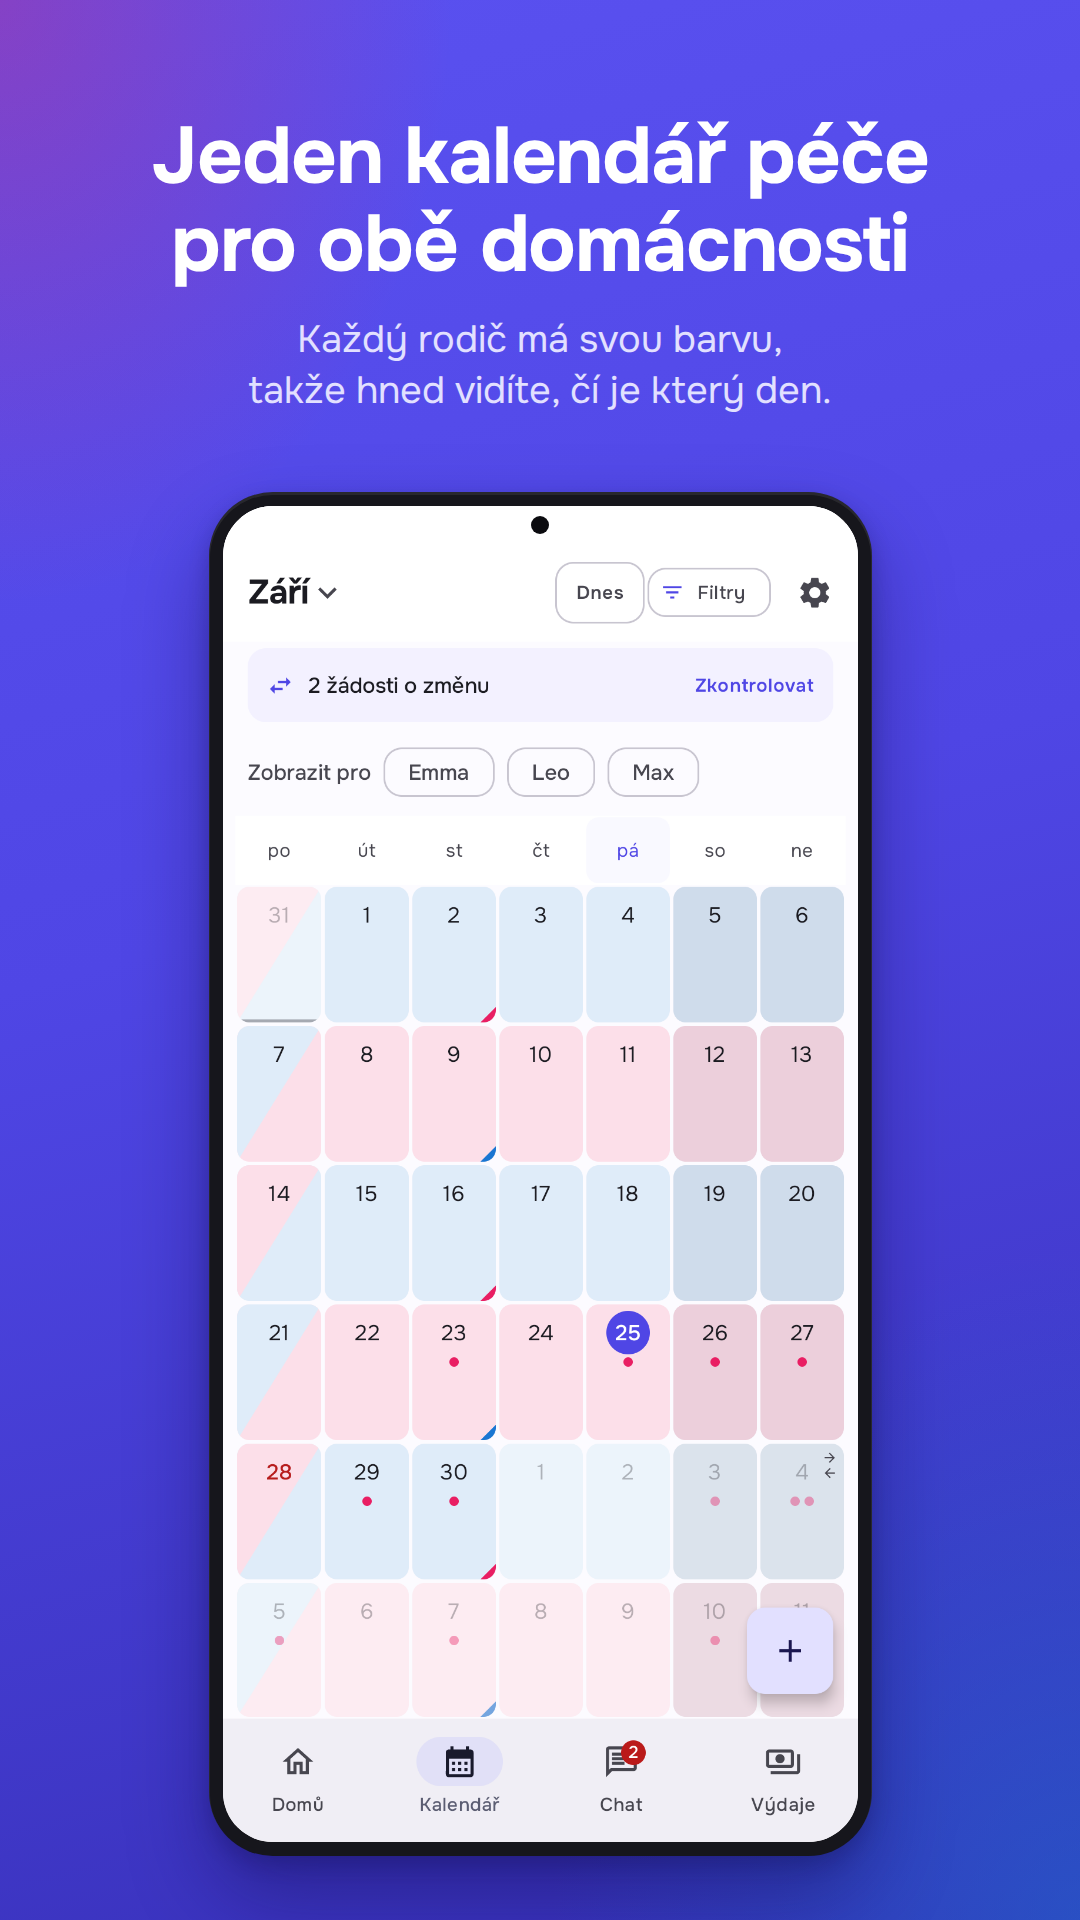
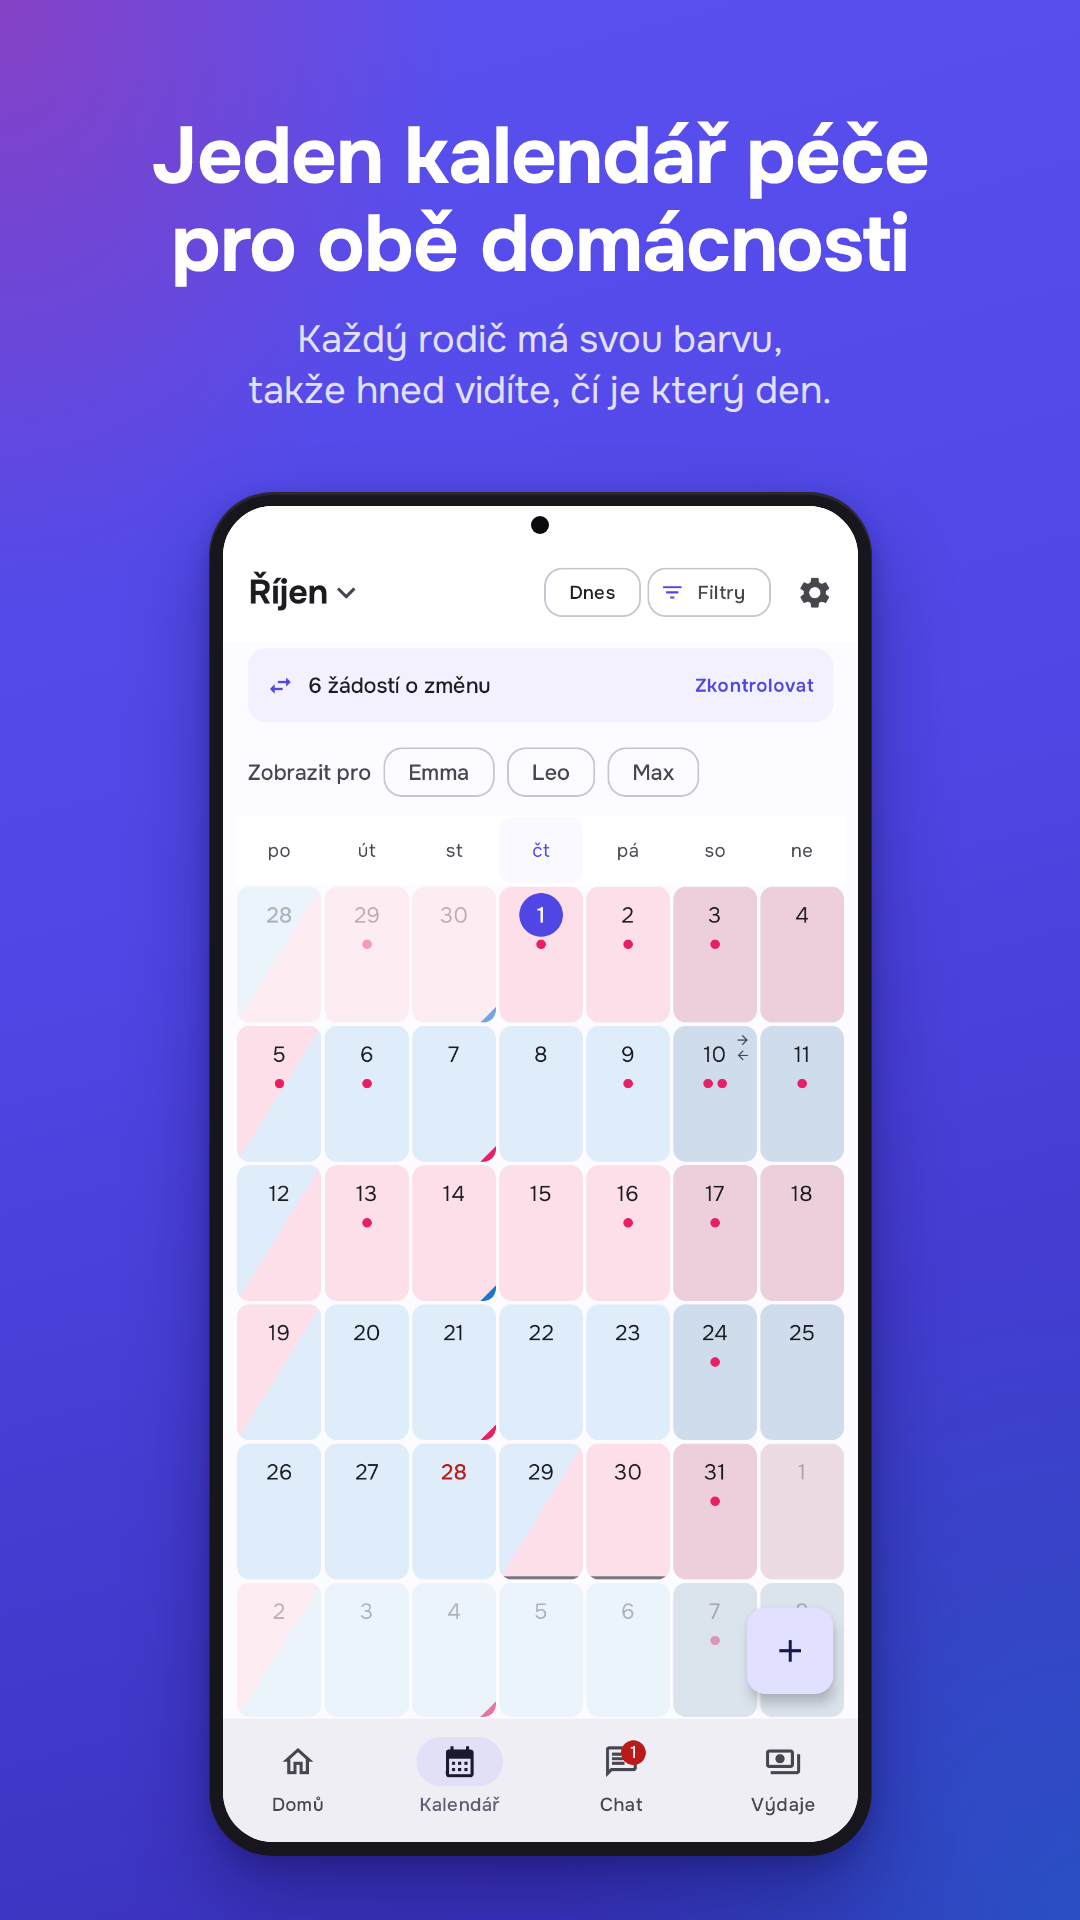
test(ui-tour): send the seeded chat now again
Dating it yesterday put the activity cards of the seeded events and expenses
after it, and the tour's thread shot timed out. Run store-image tours in
daytime UTC instead.

Claude-Session: https://claude.ai/code/session_011egS48qUaGjCpZLSy6EJTA

diff --git a/app/src/androidTest/java/com/coparently/app/e2e/UiTourSeed.kt b/app/src/androidTest/java/com/coparently/app/e2e/UiTourSeed.kt
@@ -45,7 +45,6 @@ import java.time.DayOfWeek
 import java.time.LocalDate
 import java.time.LocalDateTime
 import java.time.LocalTime
-import java.time.ZoneId
 import java.time.temporal.TemporalAdjusters
 import java.util.UUID
 import javax.inject.Inject
@@ -363,25 +362,21 @@ class UiTourSeed @Inject constructor(
     }
 
     /**
-     * Eight messages between the two, the last of Bob's carrying a PDF. They are dated yesterday
-     * evening, a few minutes apart, rather than at the moment the tour happens to run: a tour that
-     * ran after midnight printed "12:20 AM" on every bubble of a screenshot that becomes a store
-     * image. The rules do not bind a message's time, so the seed may choose it.
+     * Eight messages between the two, the last of Bob's carrying a PDF. They are sent now, after the
+     * events and expenses, so the thread opens on the conversation rather than on the activity
+     * cards those writes post; a store-image tour should therefore run in daytime UTC, or every
+     * bubble reads "12:20 AM".
      */
     private suspend fun seedChat(family: Family) {
         val thread = ConversationKey.of(family.alice, family.bob.uid)
         val chat = family.content.chat
-        val evening = family.today.minusDays(1).atTime(CHAT_HOUR, CHAT_MINUTE)
-            .atZone(ZoneId.systemDefault()).toInstant().toEpochMilli()
-        fun sentAt(index: Int) = evening + index * CHAT_GAP_MS
-        chat.lines.forEachIndexed { index, (fromAlice, text) ->
+        chat.lines.forEach { (fromAlice, text) ->
             val message = Message(
                 id = UUID.randomUUID().toString(),
                 conversationId = thread,
                 senderId = if (fromAlice) family.alice else family.bob.uid,
                 senderName = if (fromAlice) ALICE else family.bob.name,
-                content = text,
-                sentAtMillis = sentAt(index)
+                content = text
             )
             if (fromAlice) messages.sendMessage(message) else family.bob.messageRepository.sendMessage(message)
         }
@@ -398,8 +393,7 @@ class UiTourSeed @Inject constructor(
                 senderId = family.bob.uid,
                 senderName = family.bob.name,
                 content = chat.attachmentCaption,
-                attachments = listOf(ChatAttachmentCodec.encode(attachment)),
-                sentAtMillis = sentAt(chat.lines.size)
+                attachments = listOf(ChatAttachmentCodec.encode(attachment))
             )
         )
     }
@@ -464,9 +458,6 @@ class UiTourSeed @Inject constructor(
         private const val ALL_DAY_MINUTES = 23L * 60 + 59
         private const val TRIP_MINUTES = 2L * 24 * 60 + 10 * 60
         private const val SPLIT_BASIS_POINTS = 6_000
-        private const val CHAT_HOUR = 18
-        private const val CHAT_MINUTE = 5
-        private const val CHAT_GAP_MS = 4L * 60 * 1_000
         private const val CARE_WEEKDAY = "care_weekday"
         private const val HOLIDAYS_SCHOOL = "holidays_school"
     }
